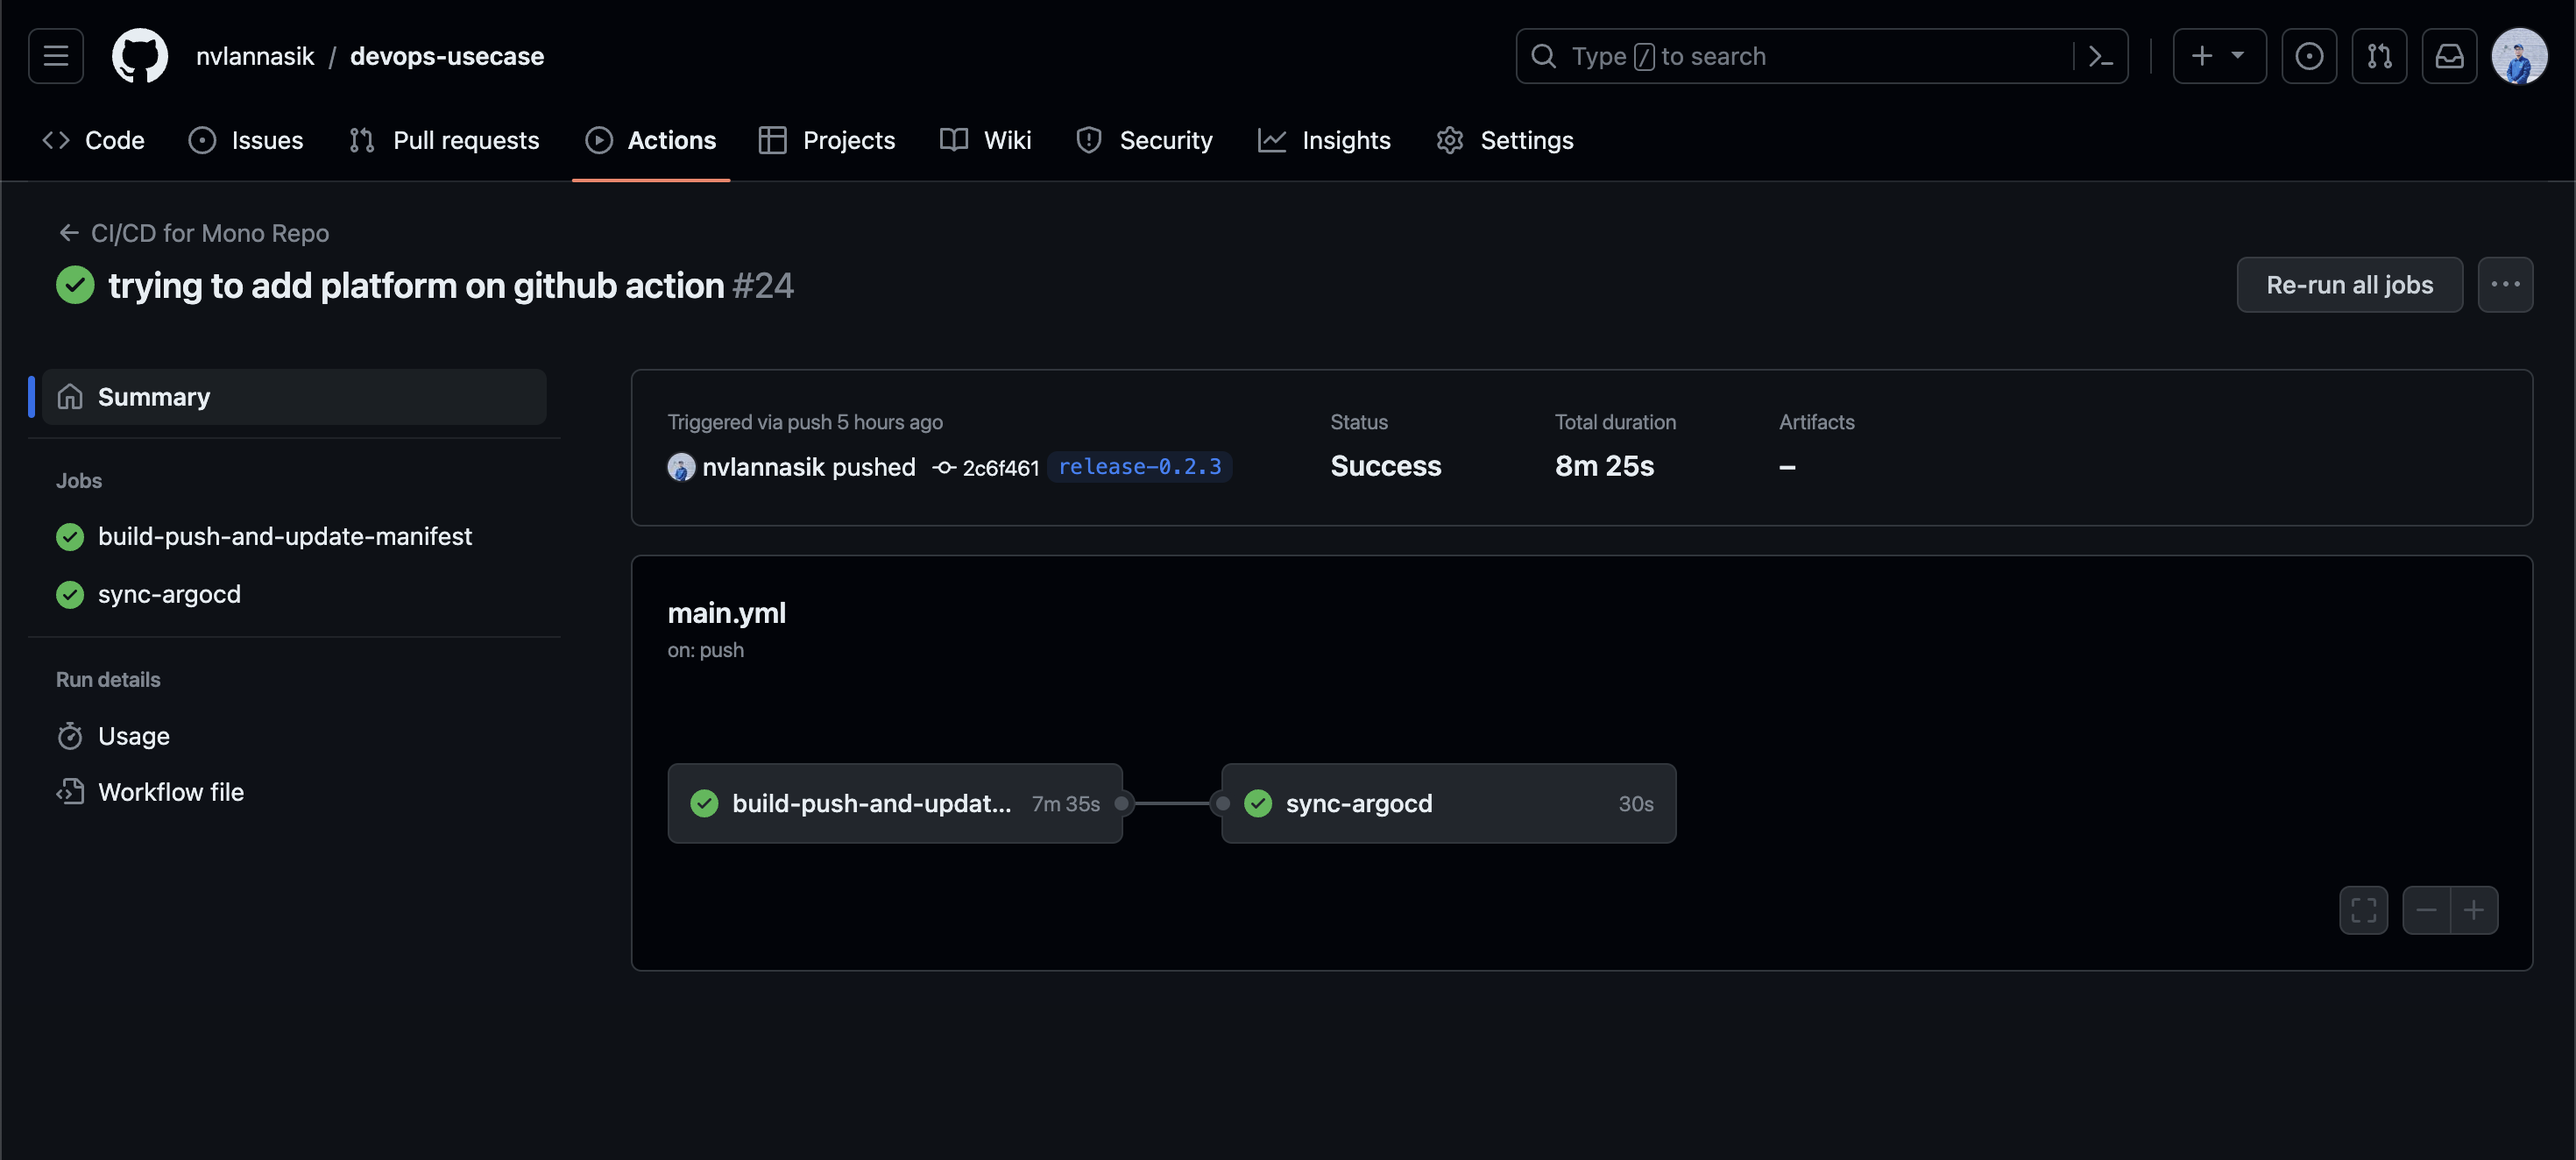
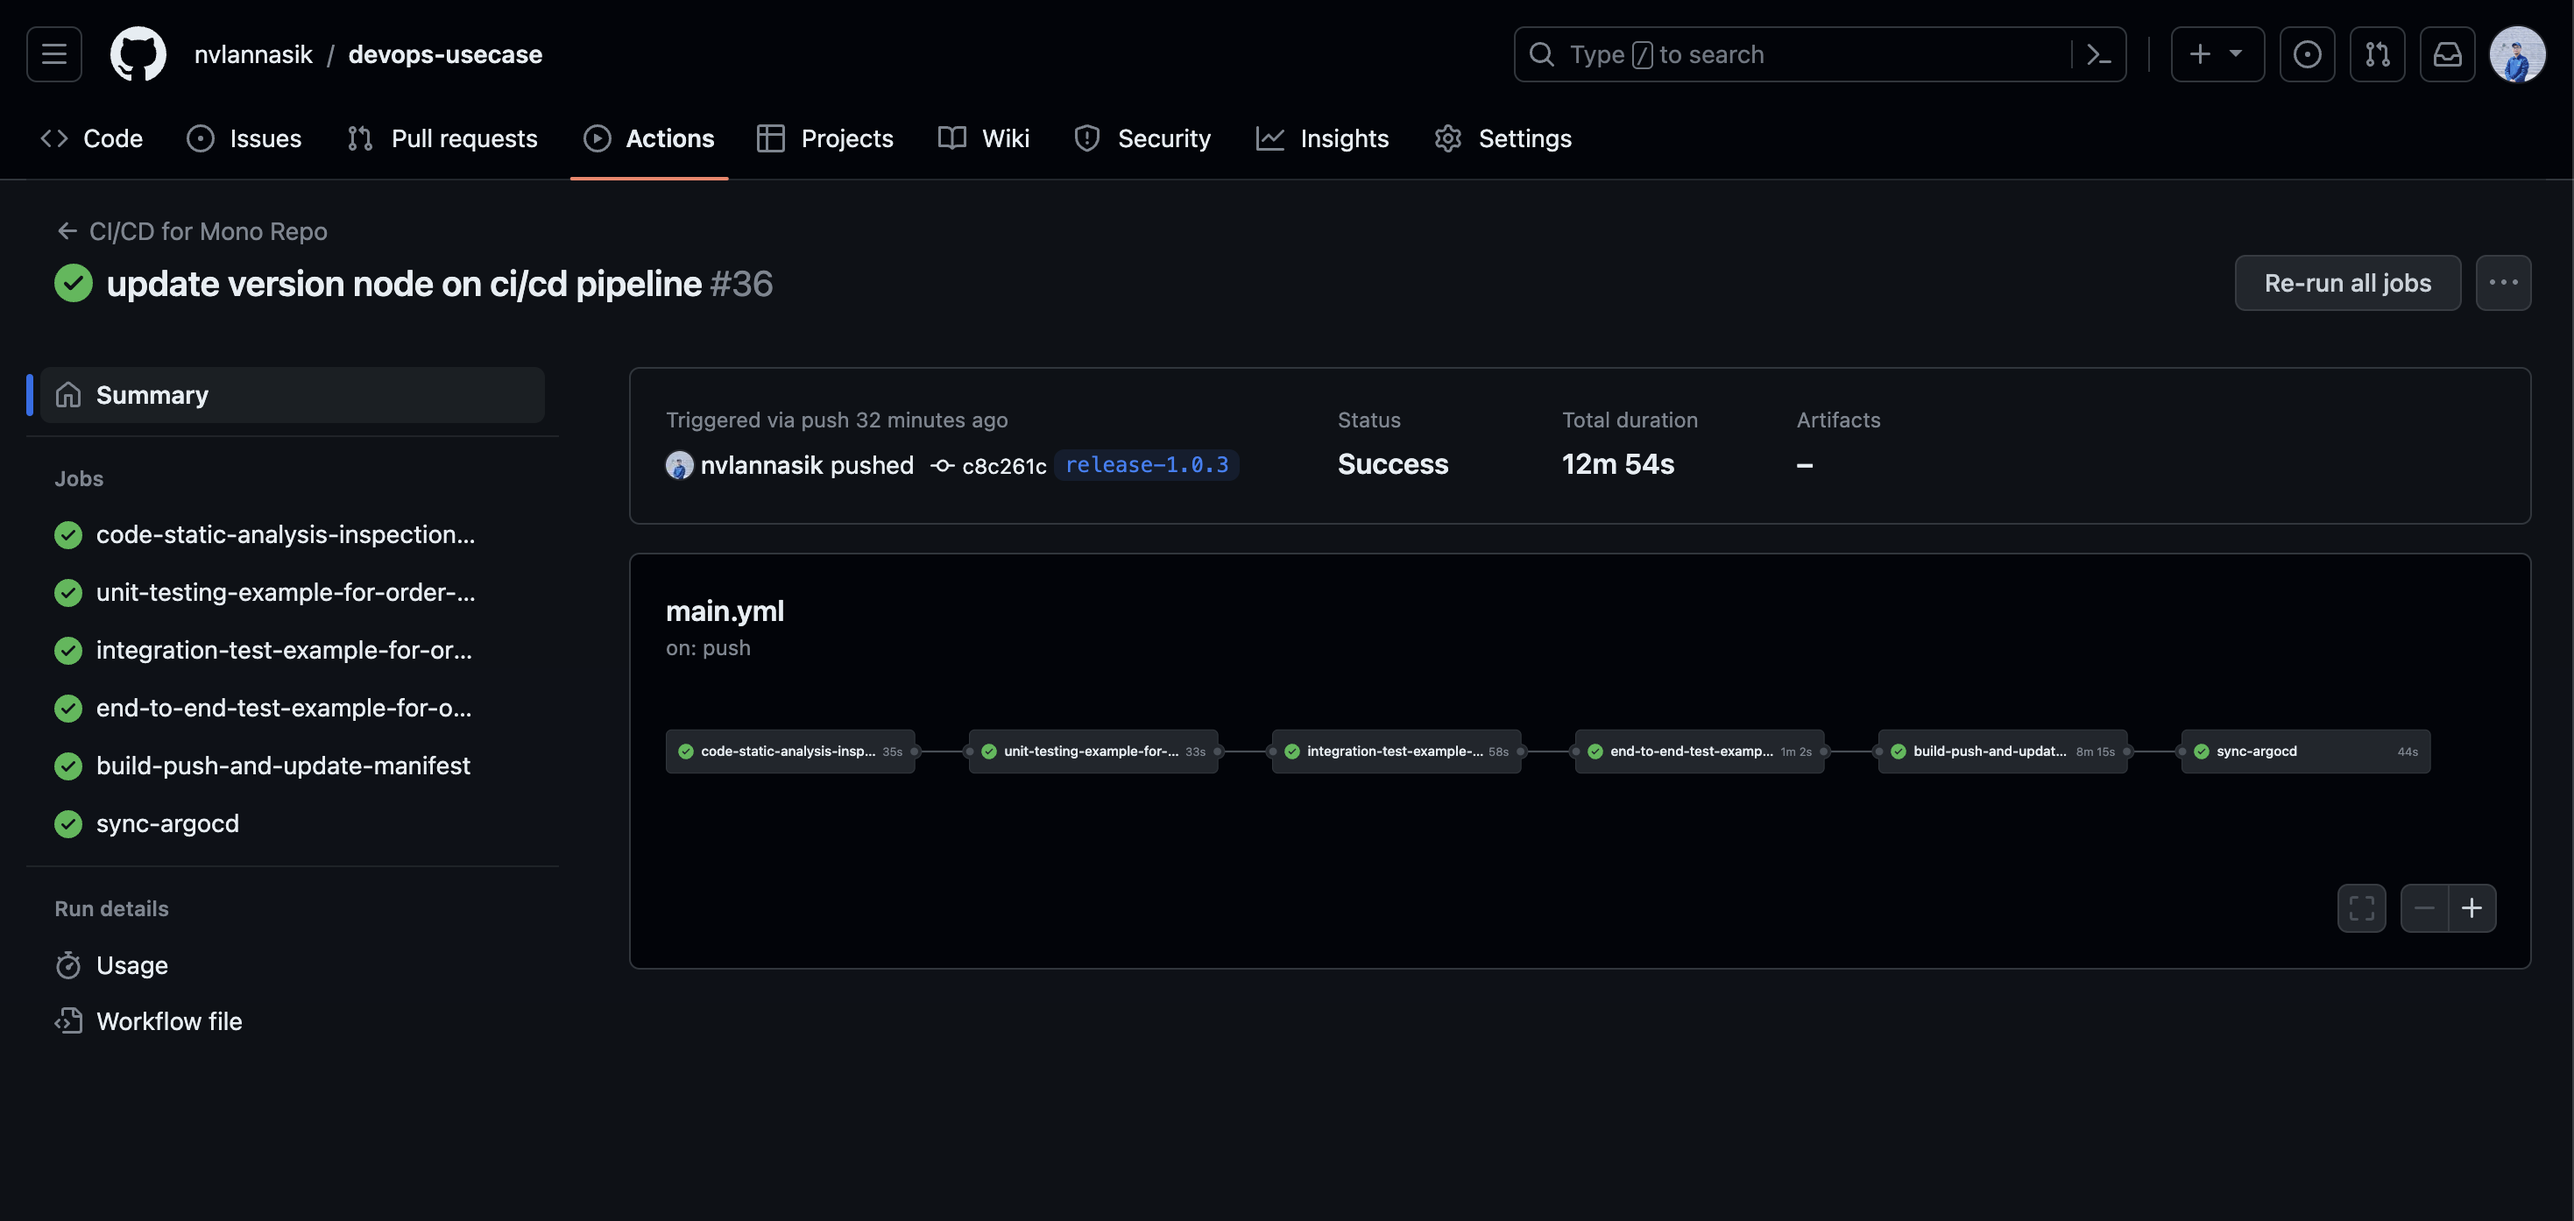
update readme

diff --git a/README.md b/README.md
@@ -36,7 +36,15 @@ This repository contains the DevOps usecases that goal is to provide a CI/CD pip
 
 ## The CI/CD Pipeline
 
-CI/CD Pipeline is managed by Github Actions. The pipeline is triggered when there is a release tag pushed to the repository. The pipeline will build the docker image for each backend services and push it to the docker registry. After that, the pipeline will change the image tag in the kubernetes manifest and push it to the repository. And finally, the pipeline will sync the kubernetes manifest to the kubernetes cluster using ArgoCD.
+CI/CD Pipeline is managed by Github Actions. The pipeline is triggered when there is a release tag pushed to the repository. The pipeline includes the following steps:
+
+- Static Code Analysis
+- Unit Testing
+- Integration Testing
+- e2e Testing
+- Build & Push Docker Image to Docker Registry
+- Change Image Tag on Kubernetes Manifest
+- Sync Kubernetes Manifest to Kubernetes Cluster using ArgoCD
 
 ![Github Action](/image/github-action.png)
 
@@ -54,6 +62,10 @@ The kubernetes cluster is a self hosted cluster on a microcluster of Raspberry P
 
 - [Setup Kubernetes Cluster on Raspberry Pi 4 Model B](https://github.com/nvlannasik/microcluster-k3s-documentation)
 - [OpenApi Specification](https://openapi.annasik.my.id)
+- [Setup ArgoCD on Kubernetes Cluster (Comming Soon)](#additional-technical-documentation)
+- [Setup Github Actions for CI/CD Pipeline (Comming Soon)](#additional-technical-documentation)
+- [Setup Cloudflare Argo Tunnel for Exposing Ingress on Kubernetes Cluster (Comming Soon)](#additional-technical-documentation)
+- [Setup Prometheus and Grafana on Kubernetes (Comming Soon)](#additional-technical-documentation)
 
 ## Author
 
